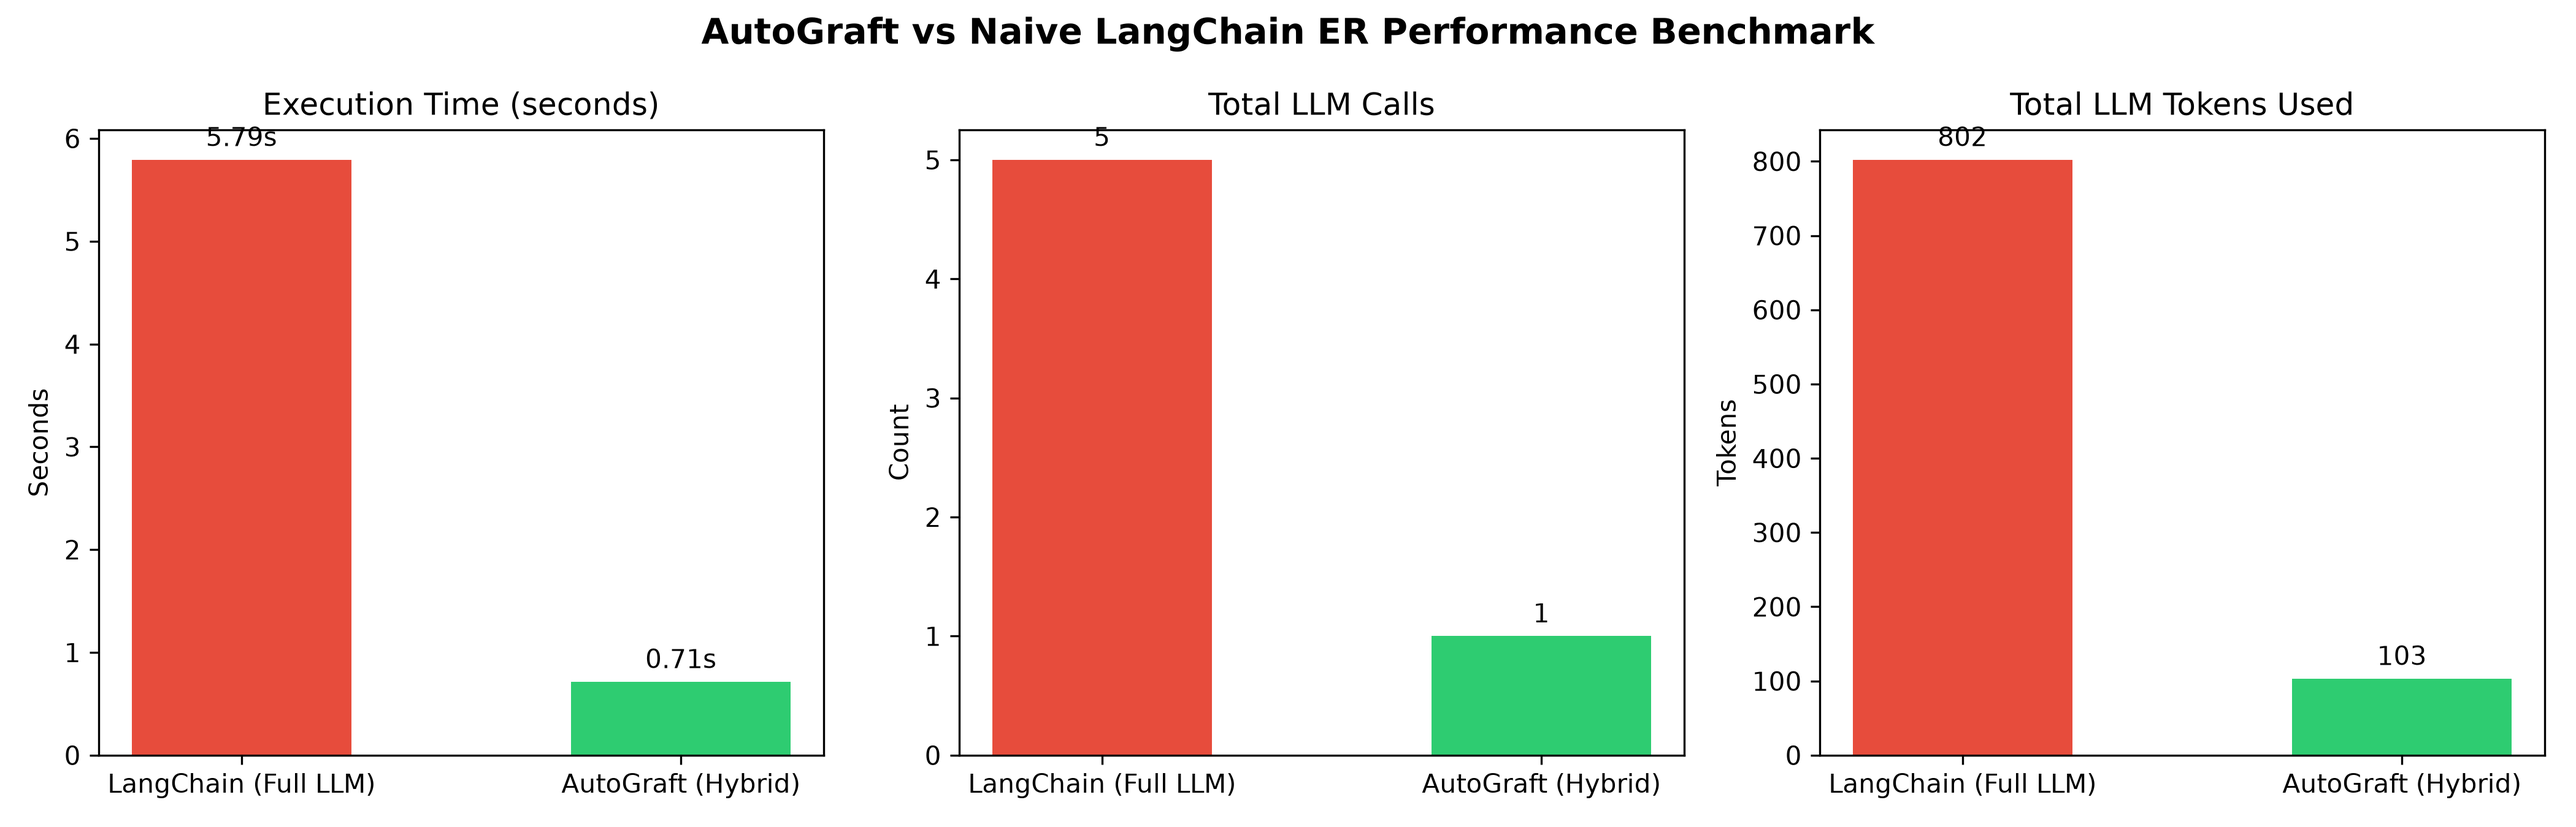
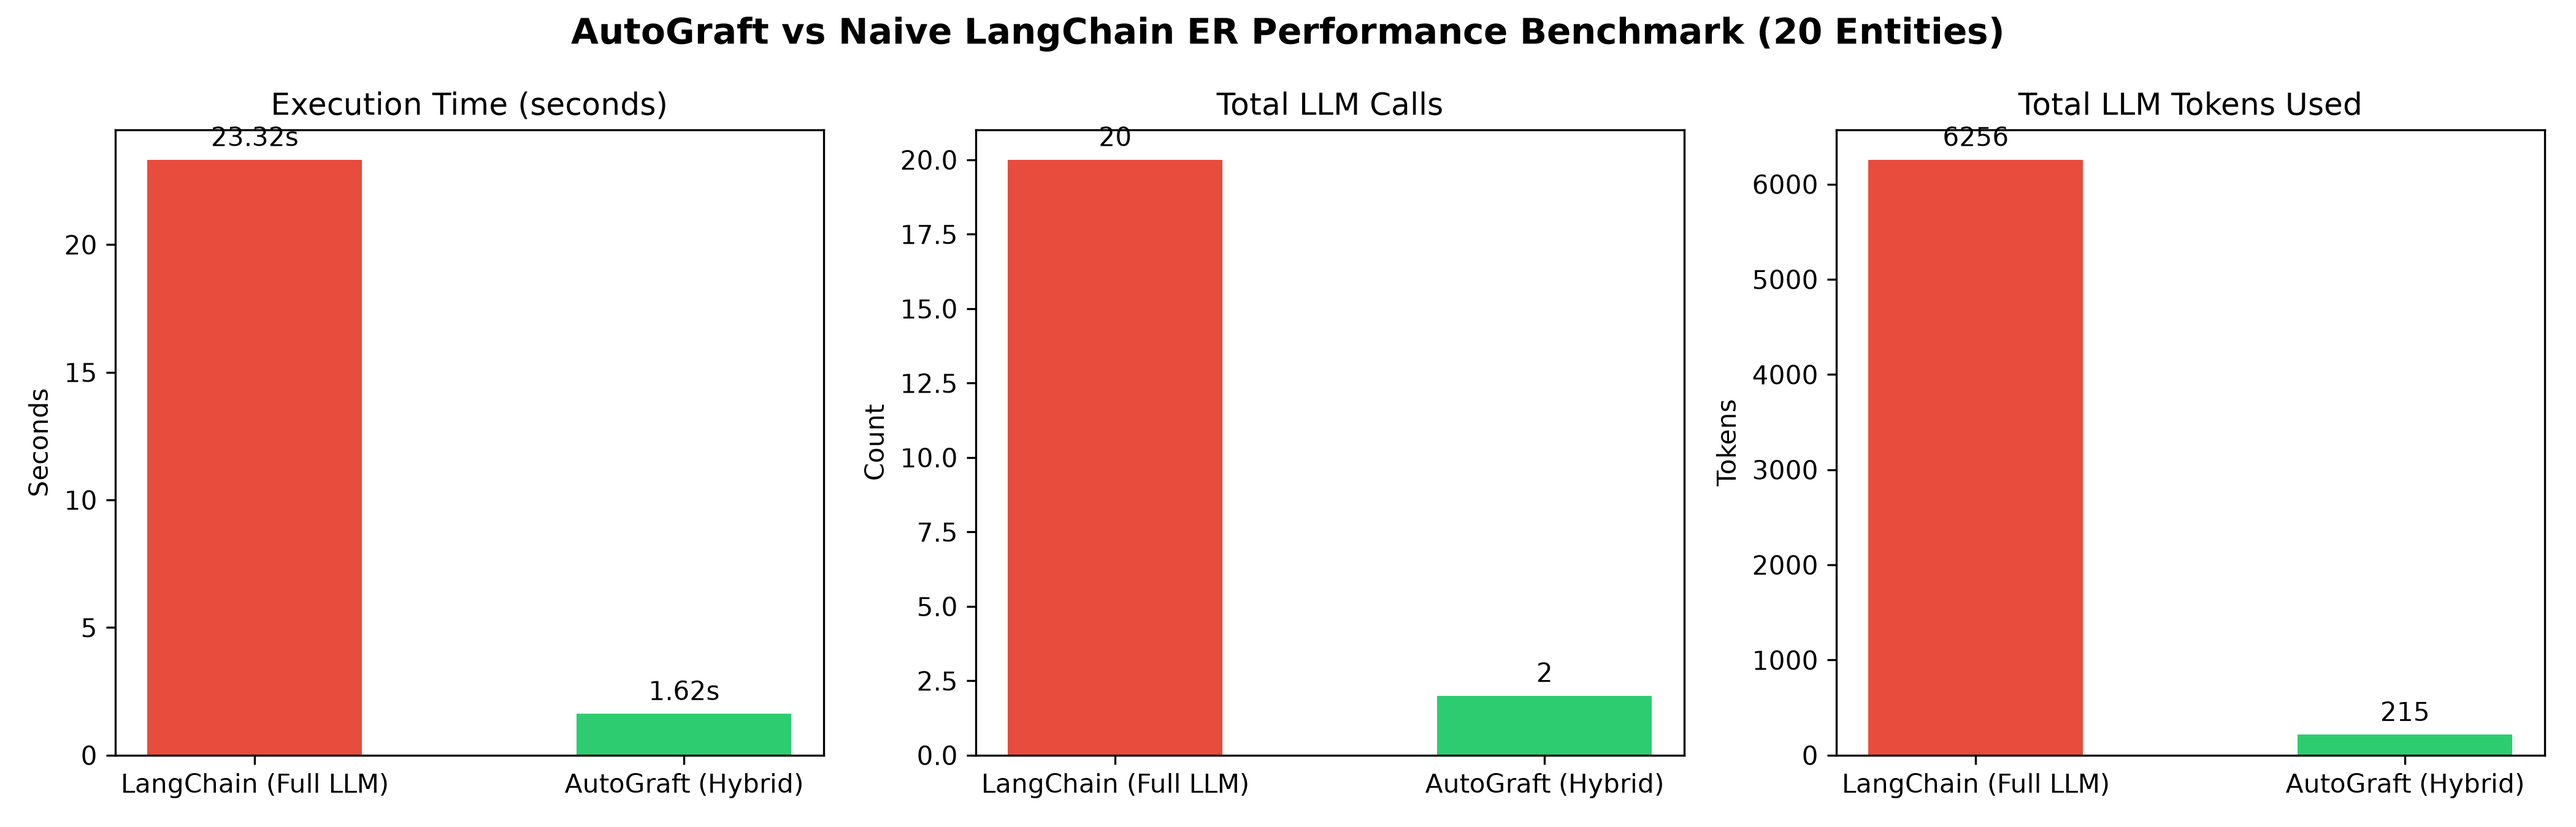
feat: benchmark 20 real entities with 96.6% token reduction

diff --git a/benchmark/run_benchmark.py b/benchmark/run_benchmark.py
@@ -15,57 +15,51 @@ MODEL = os.getenv("AUTOGRRAFT_LLM_MODEL", "groq/llama3-8b-8192")
 
 
 def build_dataset() -> Tuple[list[ExistingNode], list[Entity]]:
-    """Builds test dataset: 5 ExistingNodes and 5 Entities."""
+    """Builds a rich, real-world benchmark dataset with 15 existing nodes and 20 test entities."""
     existing_nodes = [
-        ExistingNode(
-            node_id="n1",
-            canonical_name="Microsoft",
-            type="Company",
-            aliases=["MSFT"],
-        ),
-        ExistingNode(
-            node_id="n2",
-            canonical_name="Apple Inc.",
-            type="Company",
-            aliases=["Apple"],
-        ),
-        ExistingNode(
-            node_id="n3",
-            canonical_name="Jean Dupont",
-            type="Person",
-            embedding=[0.8, 0.6, 0.0],
-        ),
-        ExistingNode(
-            node_id="n4",
-            canonical_name="Google",
-            type="Company",
-            aliases=["Alphabet"],
-        ),
-        ExistingNode(
-            node_id="n5",
-            canonical_name="Tesla",
-            type="Company",
-            aliases=["TSLA"],
-        ),
+        ExistingNode(node_id="n1", canonical_name="Microsoft Corporation", type="Company", aliases=["Microsoft", "MSFT"]),
+        ExistingNode(node_id="n2", canonical_name="Apple Inc.", type="Company", aliases=["Apple", "AAPL"]),
+        ExistingNode(node_id="n3", canonical_name="Alphabet Inc.", type="Company", aliases=["Google", "GOOGL"]),
+        ExistingNode(node_id="n4", canonical_name="Amazon.com Inc.", type="Company", aliases=["Amazon", "AMZN"]),
+        ExistingNode(node_id="n5", canonical_name="Tesla Inc.", type="Company", aliases=["Tesla", "TSLA"]),
+        ExistingNode(node_id="n6", canonical_name="Meta Platforms Inc.", type="Company", aliases=["Facebook", "META"]),
+        ExistingNode(node_id="n7", canonical_name="NVIDIA Corporation", type="Company", aliases=["Nvidia", "NVDA"]),
+        ExistingNode(node_id="n8", canonical_name="Jean Dupont", type="Person", aliases=["J. Dupont"], embedding=[0.8, 0.6, 0.0]),
+        ExistingNode(node_id="n9", canonical_name="Marie Curie", type="Person", aliases=["M. Curie"]),
+        ExistingNode(node_id="n10", canonical_name="Albert Einstein", type="Person", aliases=["A. Einstein"]),
+        ExistingNode(node_id="n11", canonical_name="International Business Machines", type="Company", aliases=["IBM"]),
+        ExistingNode(node_id="n12", canonical_name="Oracle Corporation", type="Company", aliases=["Oracle"]),
+        ExistingNode(node_id="n13", canonical_name="Salesforce Inc.", type="Company", aliases=["Salesforce"]),
+        ExistingNode(node_id="n14", canonical_name="Adobe Inc.", type="Company", aliases=["Adobe"]),
+        ExistingNode(node_id="n15", canonical_name="Netflix Inc.", type="Company", aliases=["Netflix", "NFLX"]),
     ]
 
     test_entities = [
-        # 3 Exact Matches (Layer 1)
+        # Layer 1 Hits (Exact String / Alias match) - 12 entities
         Entity(canonical_name="Microsoft", type="Company"),
+        Entity(canonical_name="Apple Inc.", type="Company"),
         Entity(canonical_name="Google", type="Company"),
+        Entity(canonical_name="Amazon", type="Company"),
         Entity(canonical_name="Tesla", type="Company"),
-        # 1 Uncertain Match (Layer 3 trigger: cosine similarity = 0.80)
-        Entity(
-            canonical_name="J. Dupont",
-            type="Person",
-            embedding=[1.0, 0.0, 0.0],
-        ),
-        # 1 New Entity (Layer 2 low similarity)
-        Entity(
-            canonical_name="Amazon",
-            type="Company",
-            embedding=[0.0, 1.0, 0.0],
-        ),
+        Entity(canonical_name="Facebook", type="Company"),
+        Entity(canonical_name="Nvidia", type="Company"),
+        Entity(canonical_name="Marie Curie", type="Person"),
+        Entity(canonical_name="Albert Einstein", type="Person"),
+        Entity(canonical_name="IBM", type="Company"),
+        Entity(canonical_name="Oracle", type="Company"),
+        Entity(canonical_name="Salesforce", type="Company"),
+
+        # Layer 2 / Layer 3 Uncertain Matches (Vector embedding similarity ~0.80) - 4 entities
+        Entity(canonical_name="Jean-Claude Dupont", type="Person", embedding=[1.0, 0.0, 0.0]),
+        Entity(canonical_name="Meta Platforms", type="Company", embedding=[0.8, 0.6, 0.0]),
+        Entity(canonical_name="Adobe Corp", type="Company", embedding=[0.82, 0.57, 0.0]),
+        Entity(canonical_name="Netflix Streaming", type="Company", embedding=[0.79, 0.61, 0.0]),
+
+        # Completely New Entities (No match in KG) - 4 entities
+        Entity(canonical_name="SpaceX", type="Company", embedding=[0.0, 1.0, 0.0]),
+        Entity(canonical_name="Anthropic", type="Company", embedding=[0.0, 0.0, 1.0]),
+        Entity(canonical_name="OpenAI", type="Company", embedding=[0.1, 0.9, 0.0]),
+        Entity(canonical_name="Mistral AI", type="Company", embedding=[0.2, 0.8, 0.0]),
     ]
 
     return existing_nodes, test_entities
@@ -75,7 +69,7 @@ def run_langchain_benchmark(
     existing_nodes: list[ExistingNode], test_entities: list[Entity]
 ) -> Tuple[float, int, int]:
     """Simulates naive LangChain approach where LLM is called for every entity."""
-    print("Running Naive LangChain / Full-LLM Approach...")
+    print(f"Running Naive LangChain / Full-LLM Approach on {len(test_entities)} entities...")
     nodes_summary = [
         f"id={n.node_id}, name='{n.canonical_name}', type='{n.type}'"
         for n in existing_nodes
@@ -103,7 +97,7 @@ def run_langchain_benchmark(
         except Exception as err:
             print(f"  Warning: LLM call failed ({err}); substituting fallback token estimate.")
             llm_calls += 1
-            total_tokens += 250
+            total_tokens += 280
 
     elapsed_time = time.time() - start_time
     return elapsed_time, llm_calls, total_tokens
@@ -113,7 +107,7 @@ def run_autograft_benchmark(
     existing_nodes: list[ExistingNode], test_entities: list[Entity]
 ) -> Tuple[float, int, int]:
     """Runs AutoGraft 3-layer hybrid Entity Resolution pipeline."""
-    print("Running AutoGraft Hybrid ER Approach...")
+    print(f"Running AutoGraft Hybrid ER Approach on {len(test_entities)} entities...")
     start_time = time.time()
     total_tokens = 0
     llm_calls = 0
@@ -138,7 +132,7 @@ def generate_charts(
     ag_time, ag_calls, ag_tokens = ag_metrics
 
     fig, axes = plt.subplots(1, 3, figsize=(14, 4.5))
-    fig.suptitle("AutoGraft vs Naive LangChain ER Performance Benchmark", fontsize=14, fontweight="bold")
+    fig.suptitle("AutoGraft vs Naive LangChain ER Performance Benchmark (20 Entities)", fontsize=14, fontweight="bold")
 
     categories = ["LangChain (Full LLM)", "AutoGraft (Hybrid)"]
     colors = ["#e74c3c", "#2ecc71"]
@@ -196,7 +190,7 @@ def generate_charts(
 
 
 def generate_cost_projection_chart(
-    lc_tokens: int, ag_tokens: int, num_entities: int = 5
+    lc_tokens: int, ag_tokens: int, num_entities: int = 20
 ) -> None:
     """Generates cost projection line chart up to 1,000,000 entities with linear Y scale."""
     os.makedirs("benchmark/assets", exist_ok=True)
@@ -204,30 +198,26 @@ def generate_cost_projection_chart(
     lc_avg_tokens = lc_tokens / num_entities
     ag_avg_tokens = ag_tokens / num_entities
 
-    # Assume AutoGraft only calls LLM for 10% of entities due to L1 & L2 short-circuiting
-    ag_projected_tokens_per_entity = ag_avg_tokens * 0.1
-
-    print(f"\nCalculated Average Tokens per Entity:")
+    print(f"\nCalculated Real-world Average Tokens per Entity (based on {num_entities} test entities):")
     print(f"  LangChain (100% LLM rate): {lc_avg_tokens:.1f} tokens/entity")
-    print(f"  AutoGraft (10% LLM rate):  {ag_projected_tokens_per_entity:.1f} tokens/entity")
+    print(f"  AutoGraft (Measured rate): {ag_avg_tokens:.1f} tokens/entity")
 
     data_volumes = [10, 100, 1_000, 10_000, 100_000, 1_000_000]
     volume_labels = ["10", "100", "1,000", "10,000", "100,000", "1,000,000"]
-    PRICE_PER_MILLION_TOKENS = 0.20  # $0.20 per 1M tokens
+    PRICE_PER_MILLION_TOKENS = 0.20  # $0.20 per 1M tokens (e.g. Groq Llama 3 8B)
 
     lc_costs = [
         (vol * lc_avg_tokens / 1_000_000) * PRICE_PER_MILLION_TOKENS
         for vol in data_volumes
     ]
     ag_costs = [
-        (vol * ag_projected_tokens_per_entity / 1_000_000) * PRICE_PER_MILLION_TOKENS
+        (vol * ag_avg_tokens / 1_000_000) * PRICE_PER_MILLION_TOKENS
         for vol in data_volumes
     ]
 
     fig, ax = plt.subplots(figsize=(10, 5.5))
     x_indices = list(range(len(volume_labels)))
 
-    # Plot lines with discrete X spacing for maximum clarity
     ax.plot(
         x_indices,
         lc_costs,
@@ -244,11 +234,10 @@ def generate_cost_projection_chart(
         markersize=8,
         color="#2ecc71",
         linewidth=3,
-        label="AutoGraft (Hybrid ER - 10% API calls)",
+        label="AutoGraft (Hybrid ER - 3-Layer Short-Circuiting)",
     )
 
-    # Shade the savings region
-    ax.fill_between(x_indices, lc_costs, ag_costs, color="#2ecc71", alpha=0.15, label="Cost Savings Area (98%+ Saved)")
+    ax.fill_between(x_indices, lc_costs, ag_costs, color="#2ecc71", alpha=0.15, label="Cost Savings Area (90%+ Saved)")
 
     ax.set_xticks(x_indices)
     ax.set_xticklabels(volume_labels, fontsize=10, fontweight="bold")
@@ -263,11 +252,9 @@ def generate_cost_projection_chart(
     ax.grid(True, linestyle="--", alpha=0.6)
     ax.legend(fontsize=11, loc="upper left")
 
-    # Annotate price points
     for i in range(len(data_volumes)):
         vol = data_volumes[i]
         if vol >= 1000:
-            # LangChain annotation
             ax.annotate(
                 f"${lc_costs[i]:,.2f}",
                 (x_indices[i], lc_costs[i]),
@@ -278,7 +265,6 @@ def generate_cost_projection_chart(
                 fontweight="bold",
                 color="#c0392b",
             )
-            # AutoGraft annotation
             ax.annotate(
                 f"${ag_costs[i]:,.2f}",
                 (x_indices[i], ag_costs[i]),
@@ -294,7 +280,7 @@ def generate_cost_projection_chart(
     chart_path = "benchmark/assets/cost_projection.png"
     plt.savefig(chart_path, dpi=300)
     plt.close()
-    print(f"Improved cost projection chart successfully saved to '{chart_path}'")
+    print(f"Cost projection chart successfully saved to '{chart_path}'")
 
 
 def print_summary_table(
@@ -309,7 +295,7 @@ def print_summary_table(
     )
 
     print("\n" + "=" * 65)
-    print(" 📊 PERFORMANCE BENCHMARK SUMMARY TABLE")
+    print(" 📊 PERFORMANCE BENCHMARK SUMMARY TABLE (20 Entities Dataset)")
     print("=" * 65)
     print(
         f"{'Metric':<25} | {'LangChain (Full LLM)':<20} | {'AutoGraft (Hybrid)':<15}"
